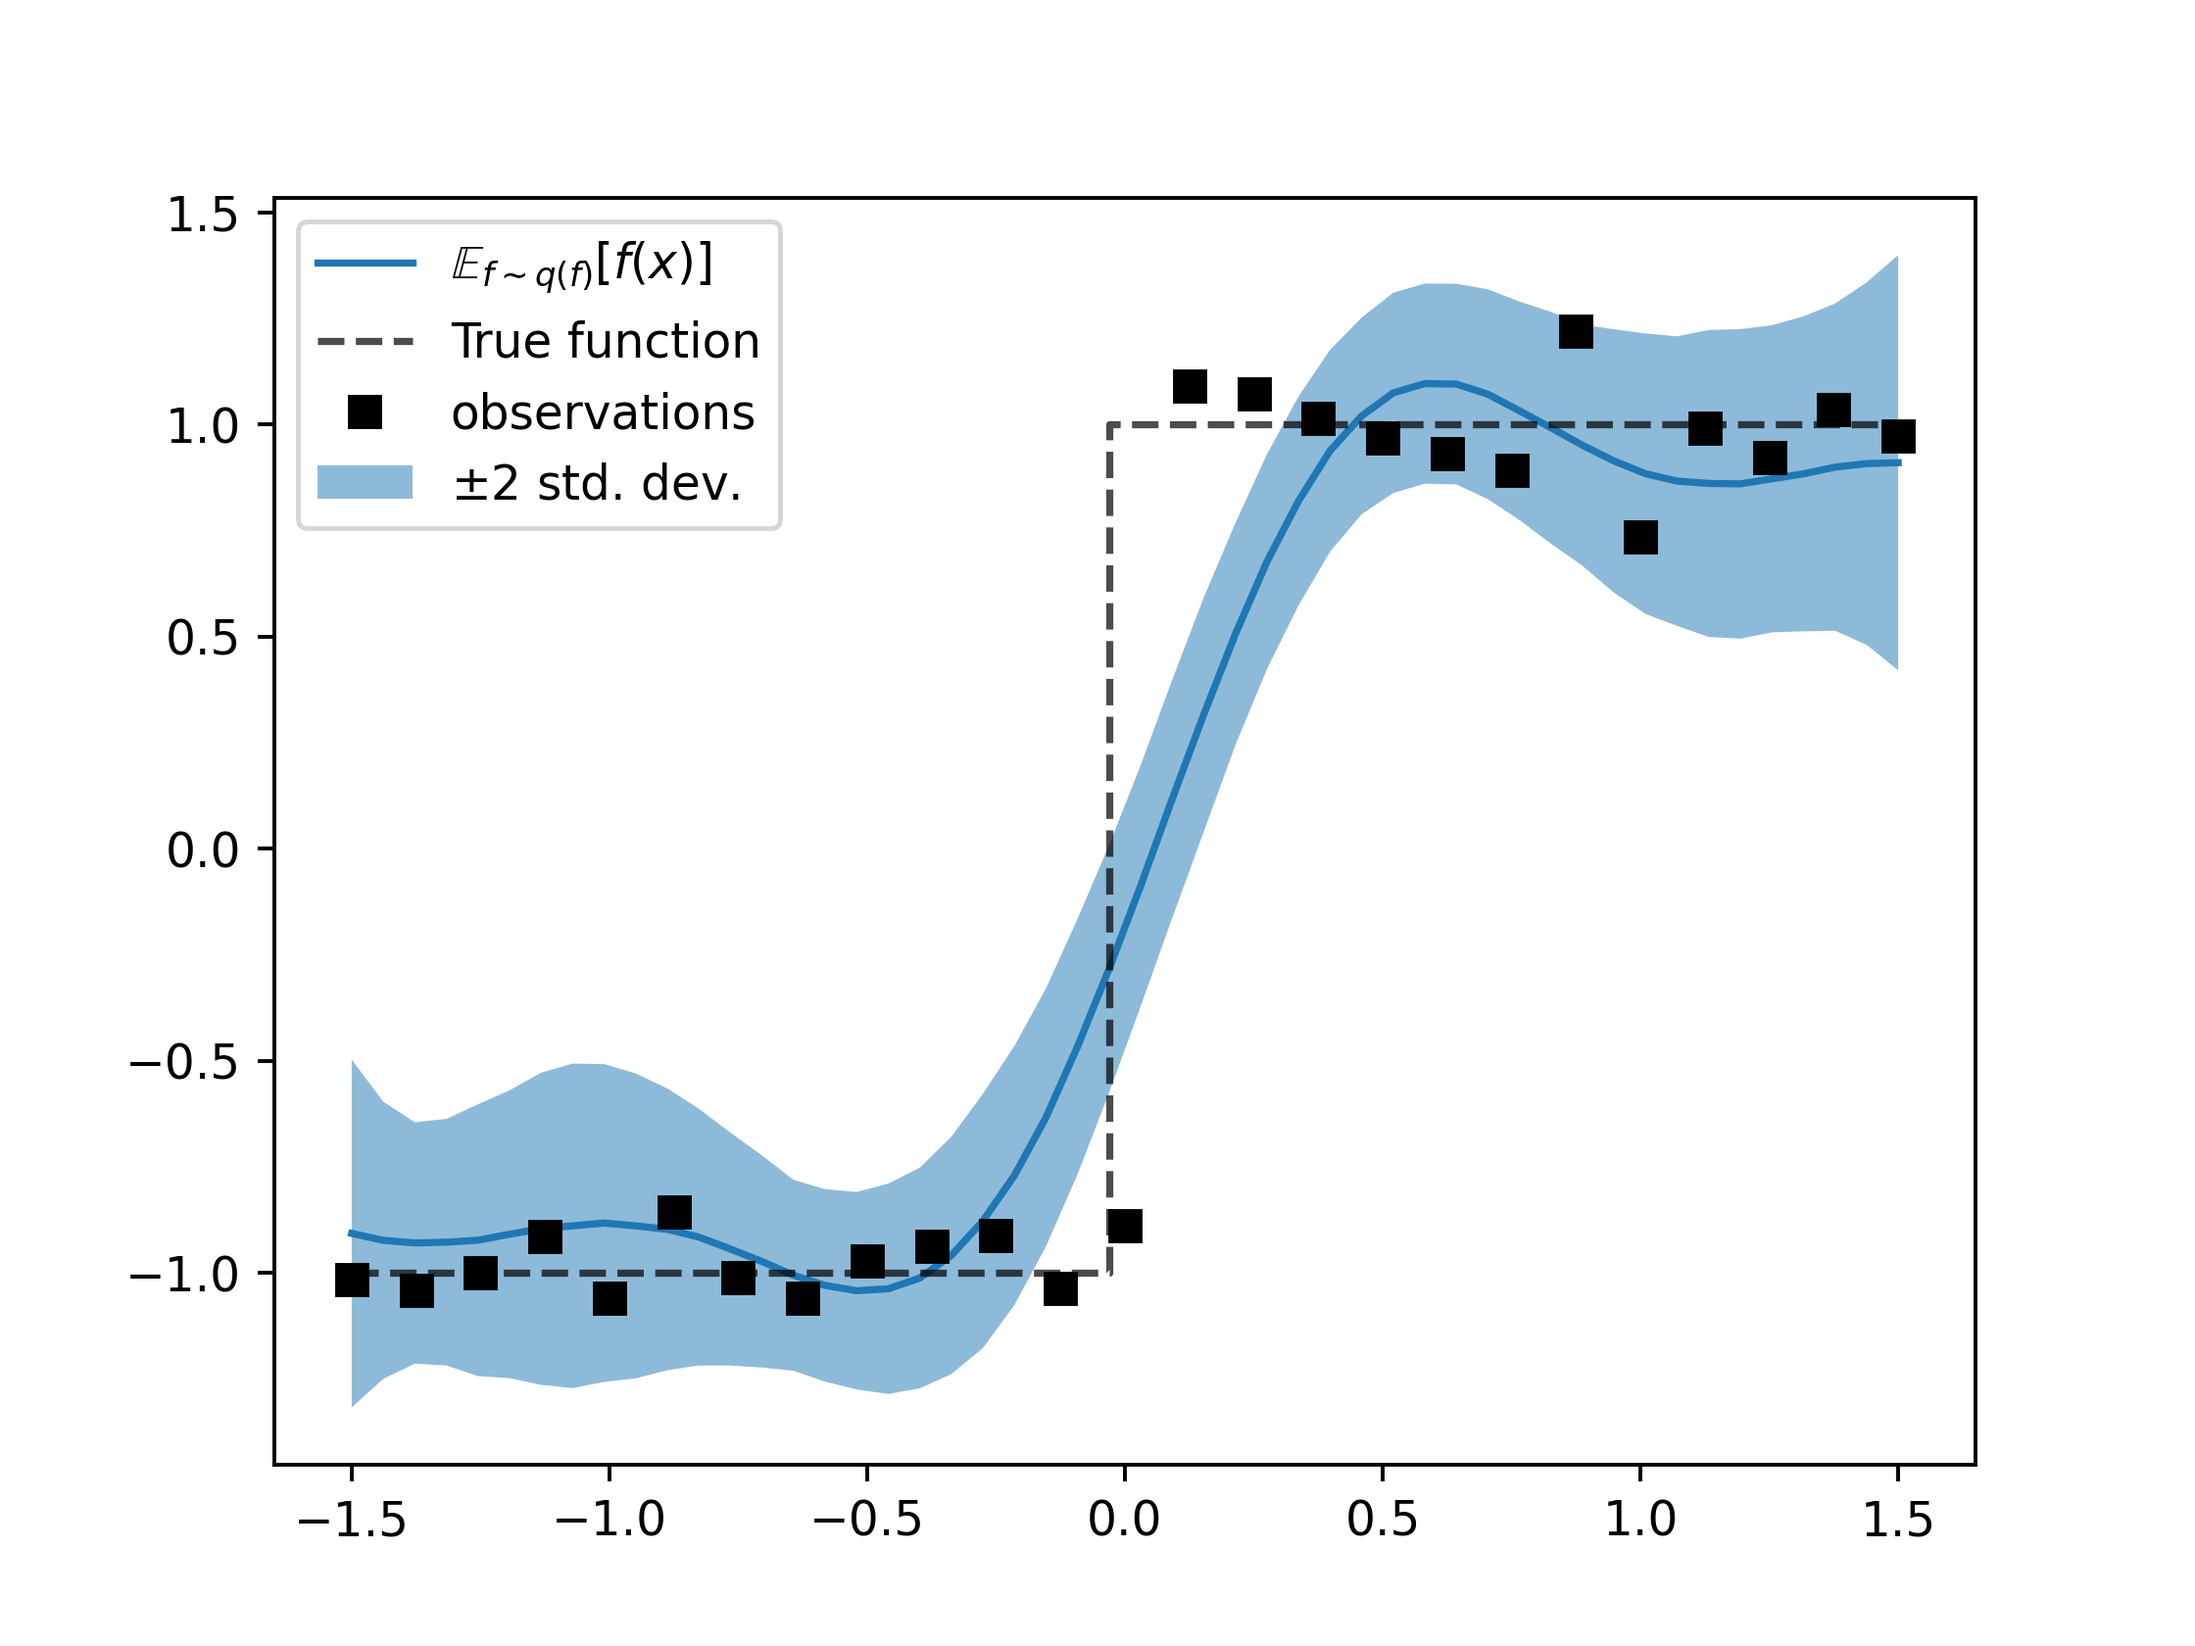
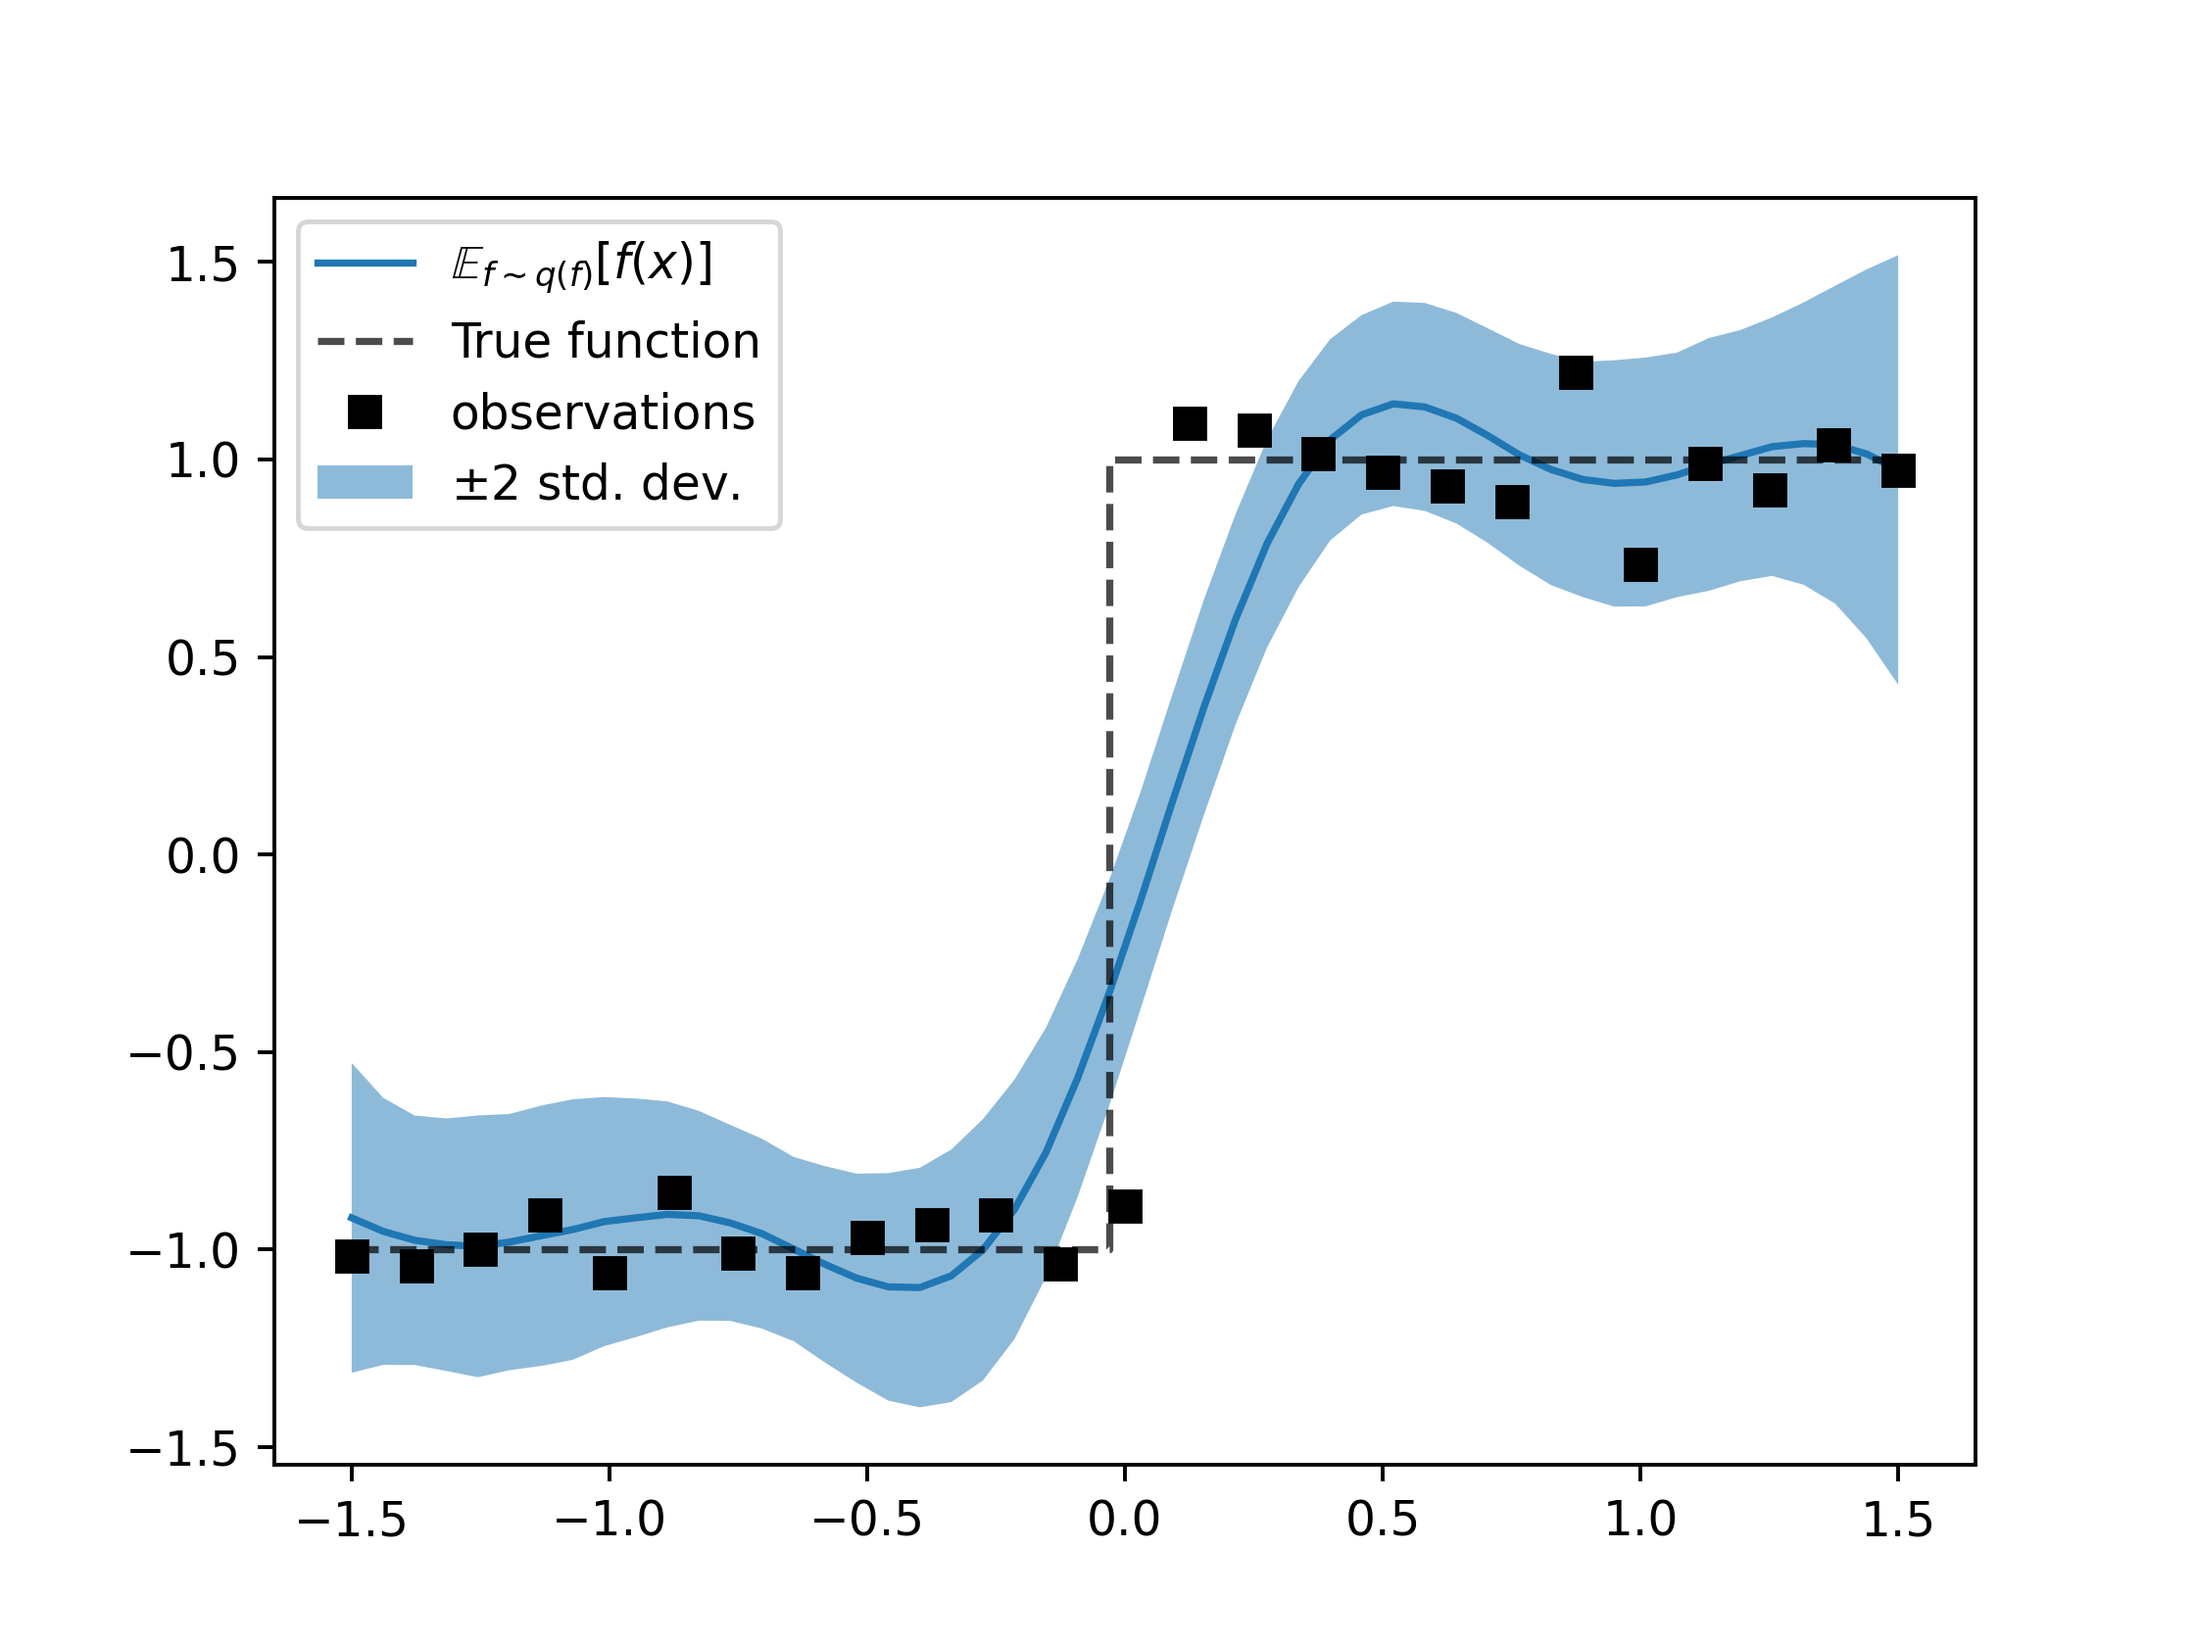
deep_gp run with more epochs

diff --git a/examples/deep_gp.py b/examples/deep_gp.py
@@ -237,9 +237,6 @@ def main(_):
         ax.plot(train_ds['index_points'][:, 0], train_ds['y'],
                 'ks', label='observations')
         ax.legend()
-
-        plt.savefig('./imgs/{}layer_deepgp'.format(FLAGS.num_layers), dpi=350)
-
         plt.show()
 
 
